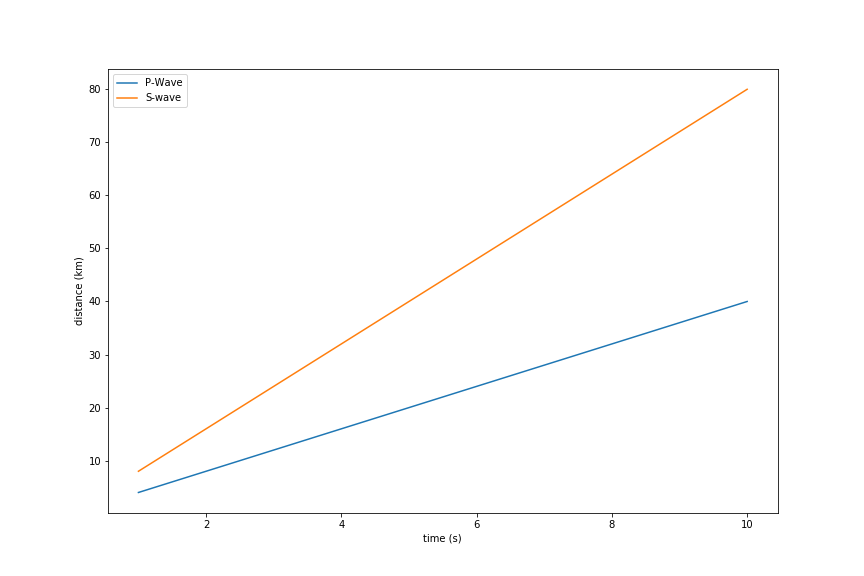
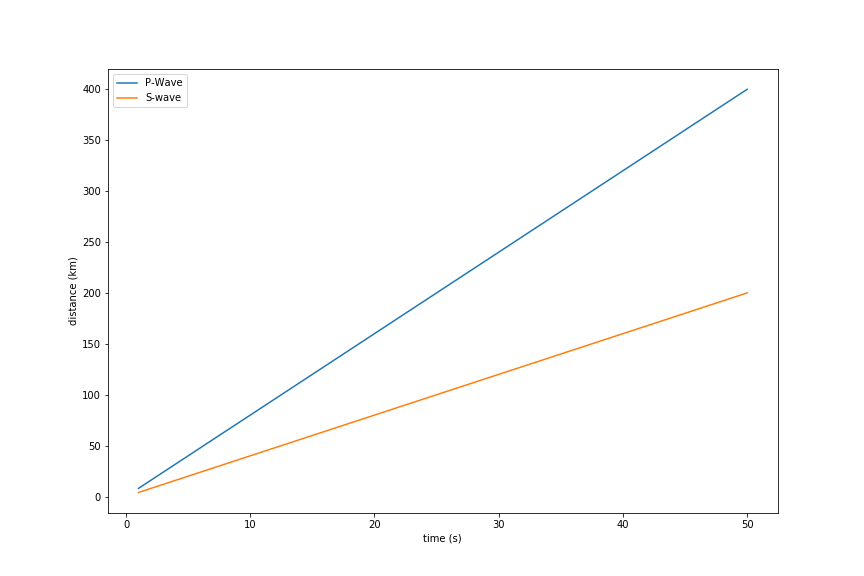
fixed

diff --git a/simulator/p-s_wave/ps_wave.py b/simulator/p-s_wave/ps_wave.py
@@ -9,17 +9,17 @@ dt = 1
 
 
 def main():
-    # generate_image(p_wave, s_wave, "wave")
+    generate_image(p_wave, s_wave, "wave")
     generate_animation()
 
 
 # FUNCTION.
 def p_wave(t):
-    return 4 * t
+    return 8 * t
 
 
 def s_wave(t):
-    return 8 * t
+    return 4 * t
 
 
 def generate_image(f, f2, name):
